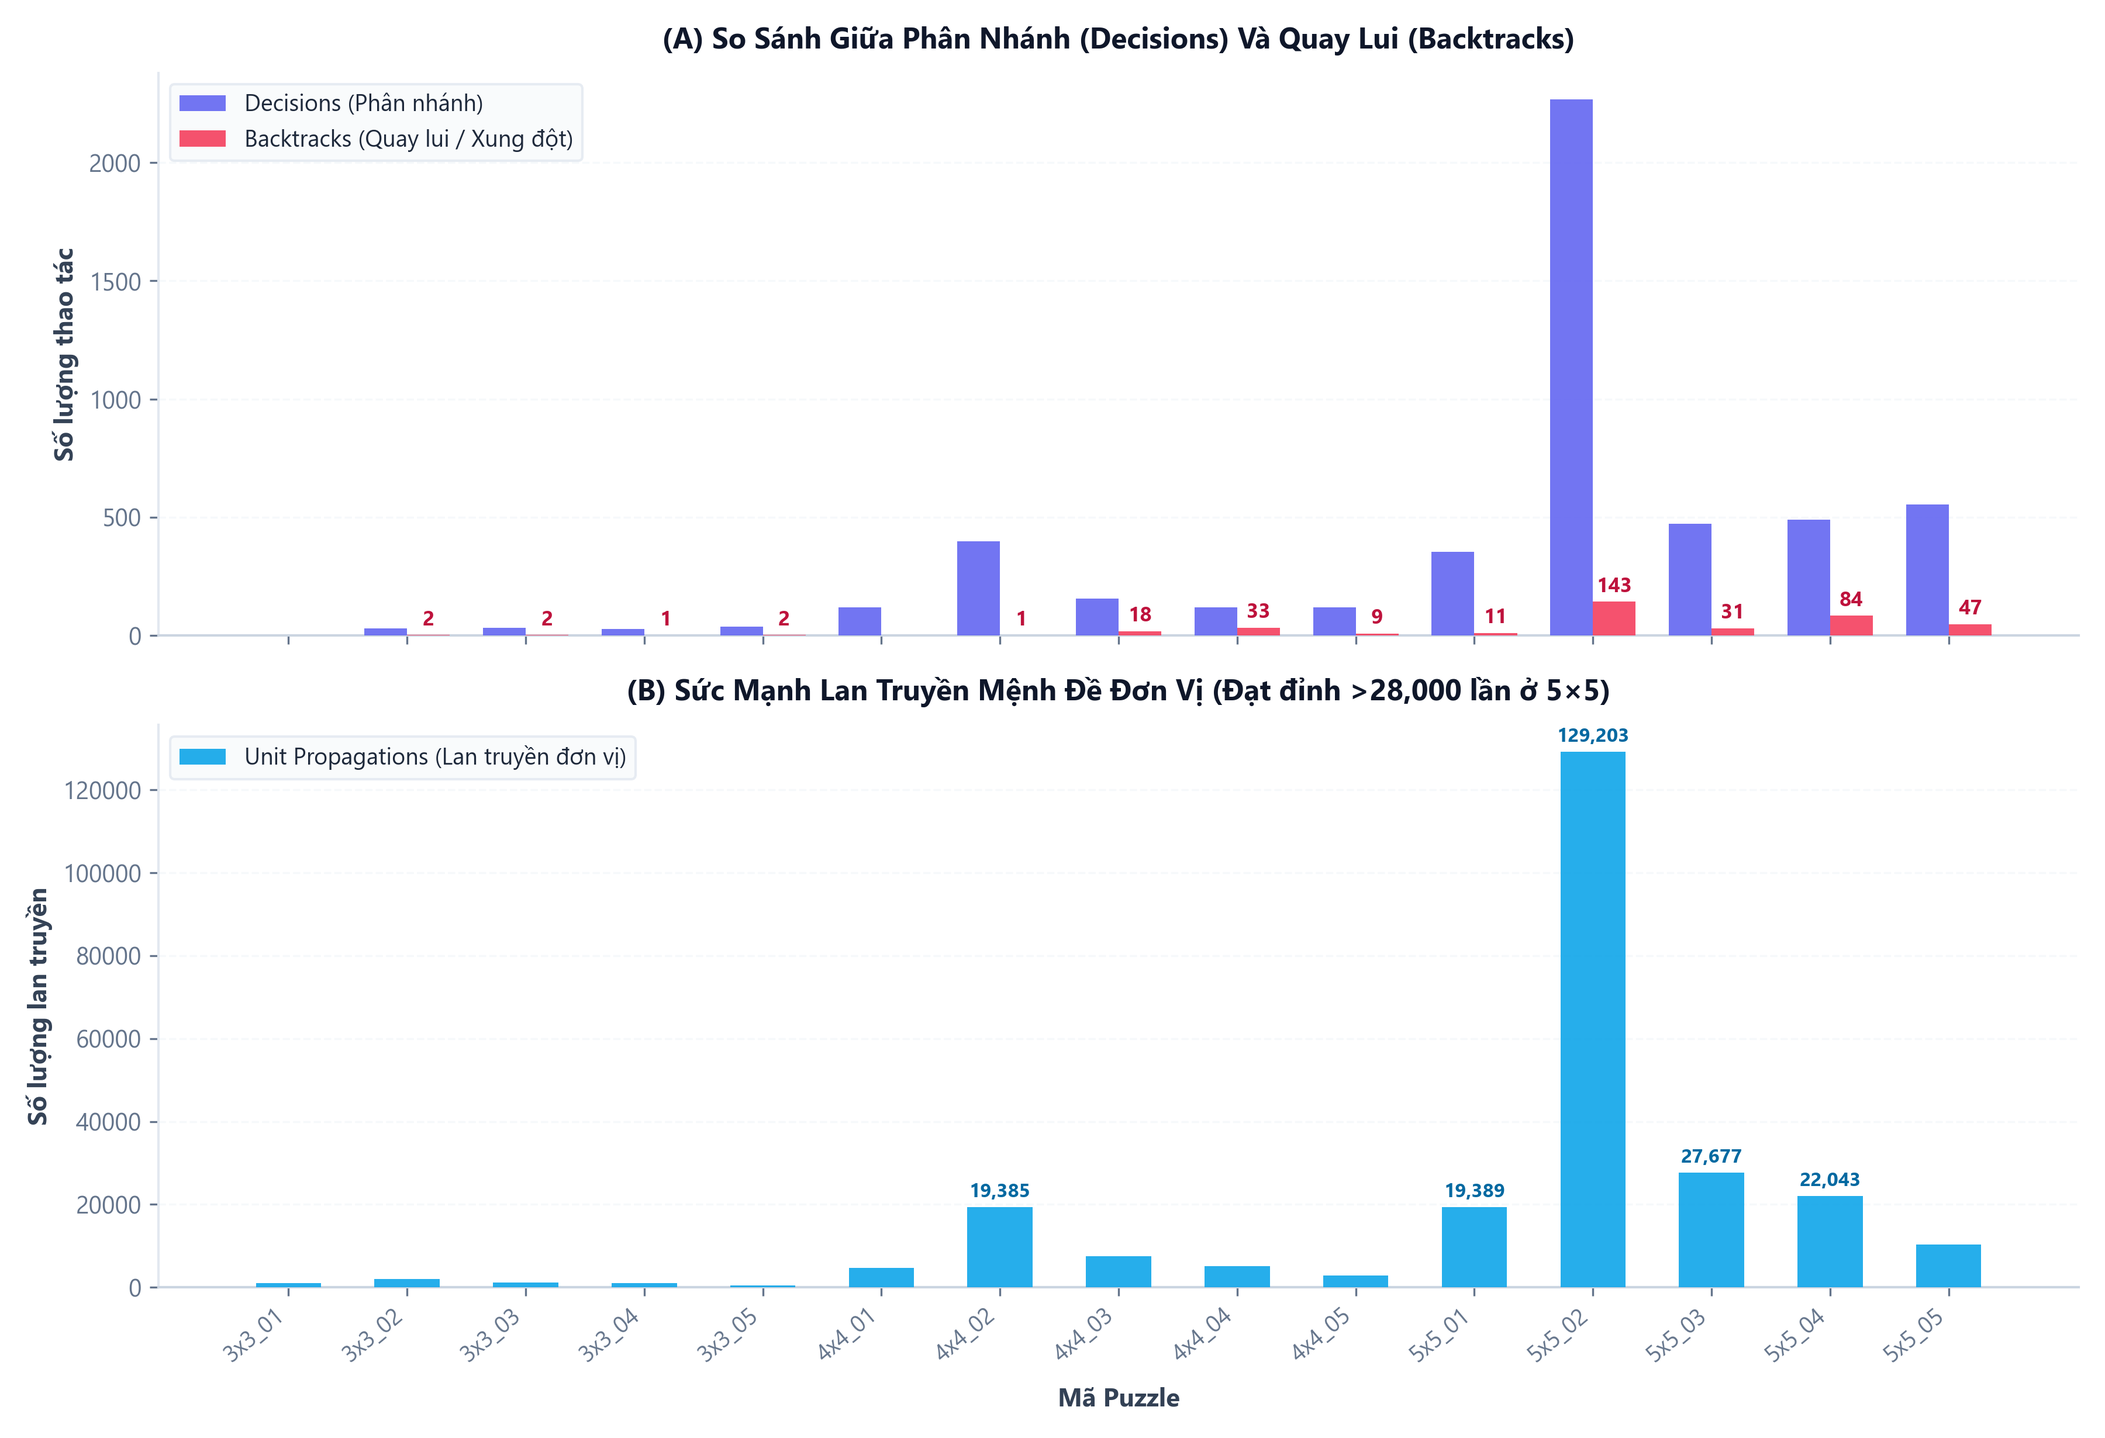
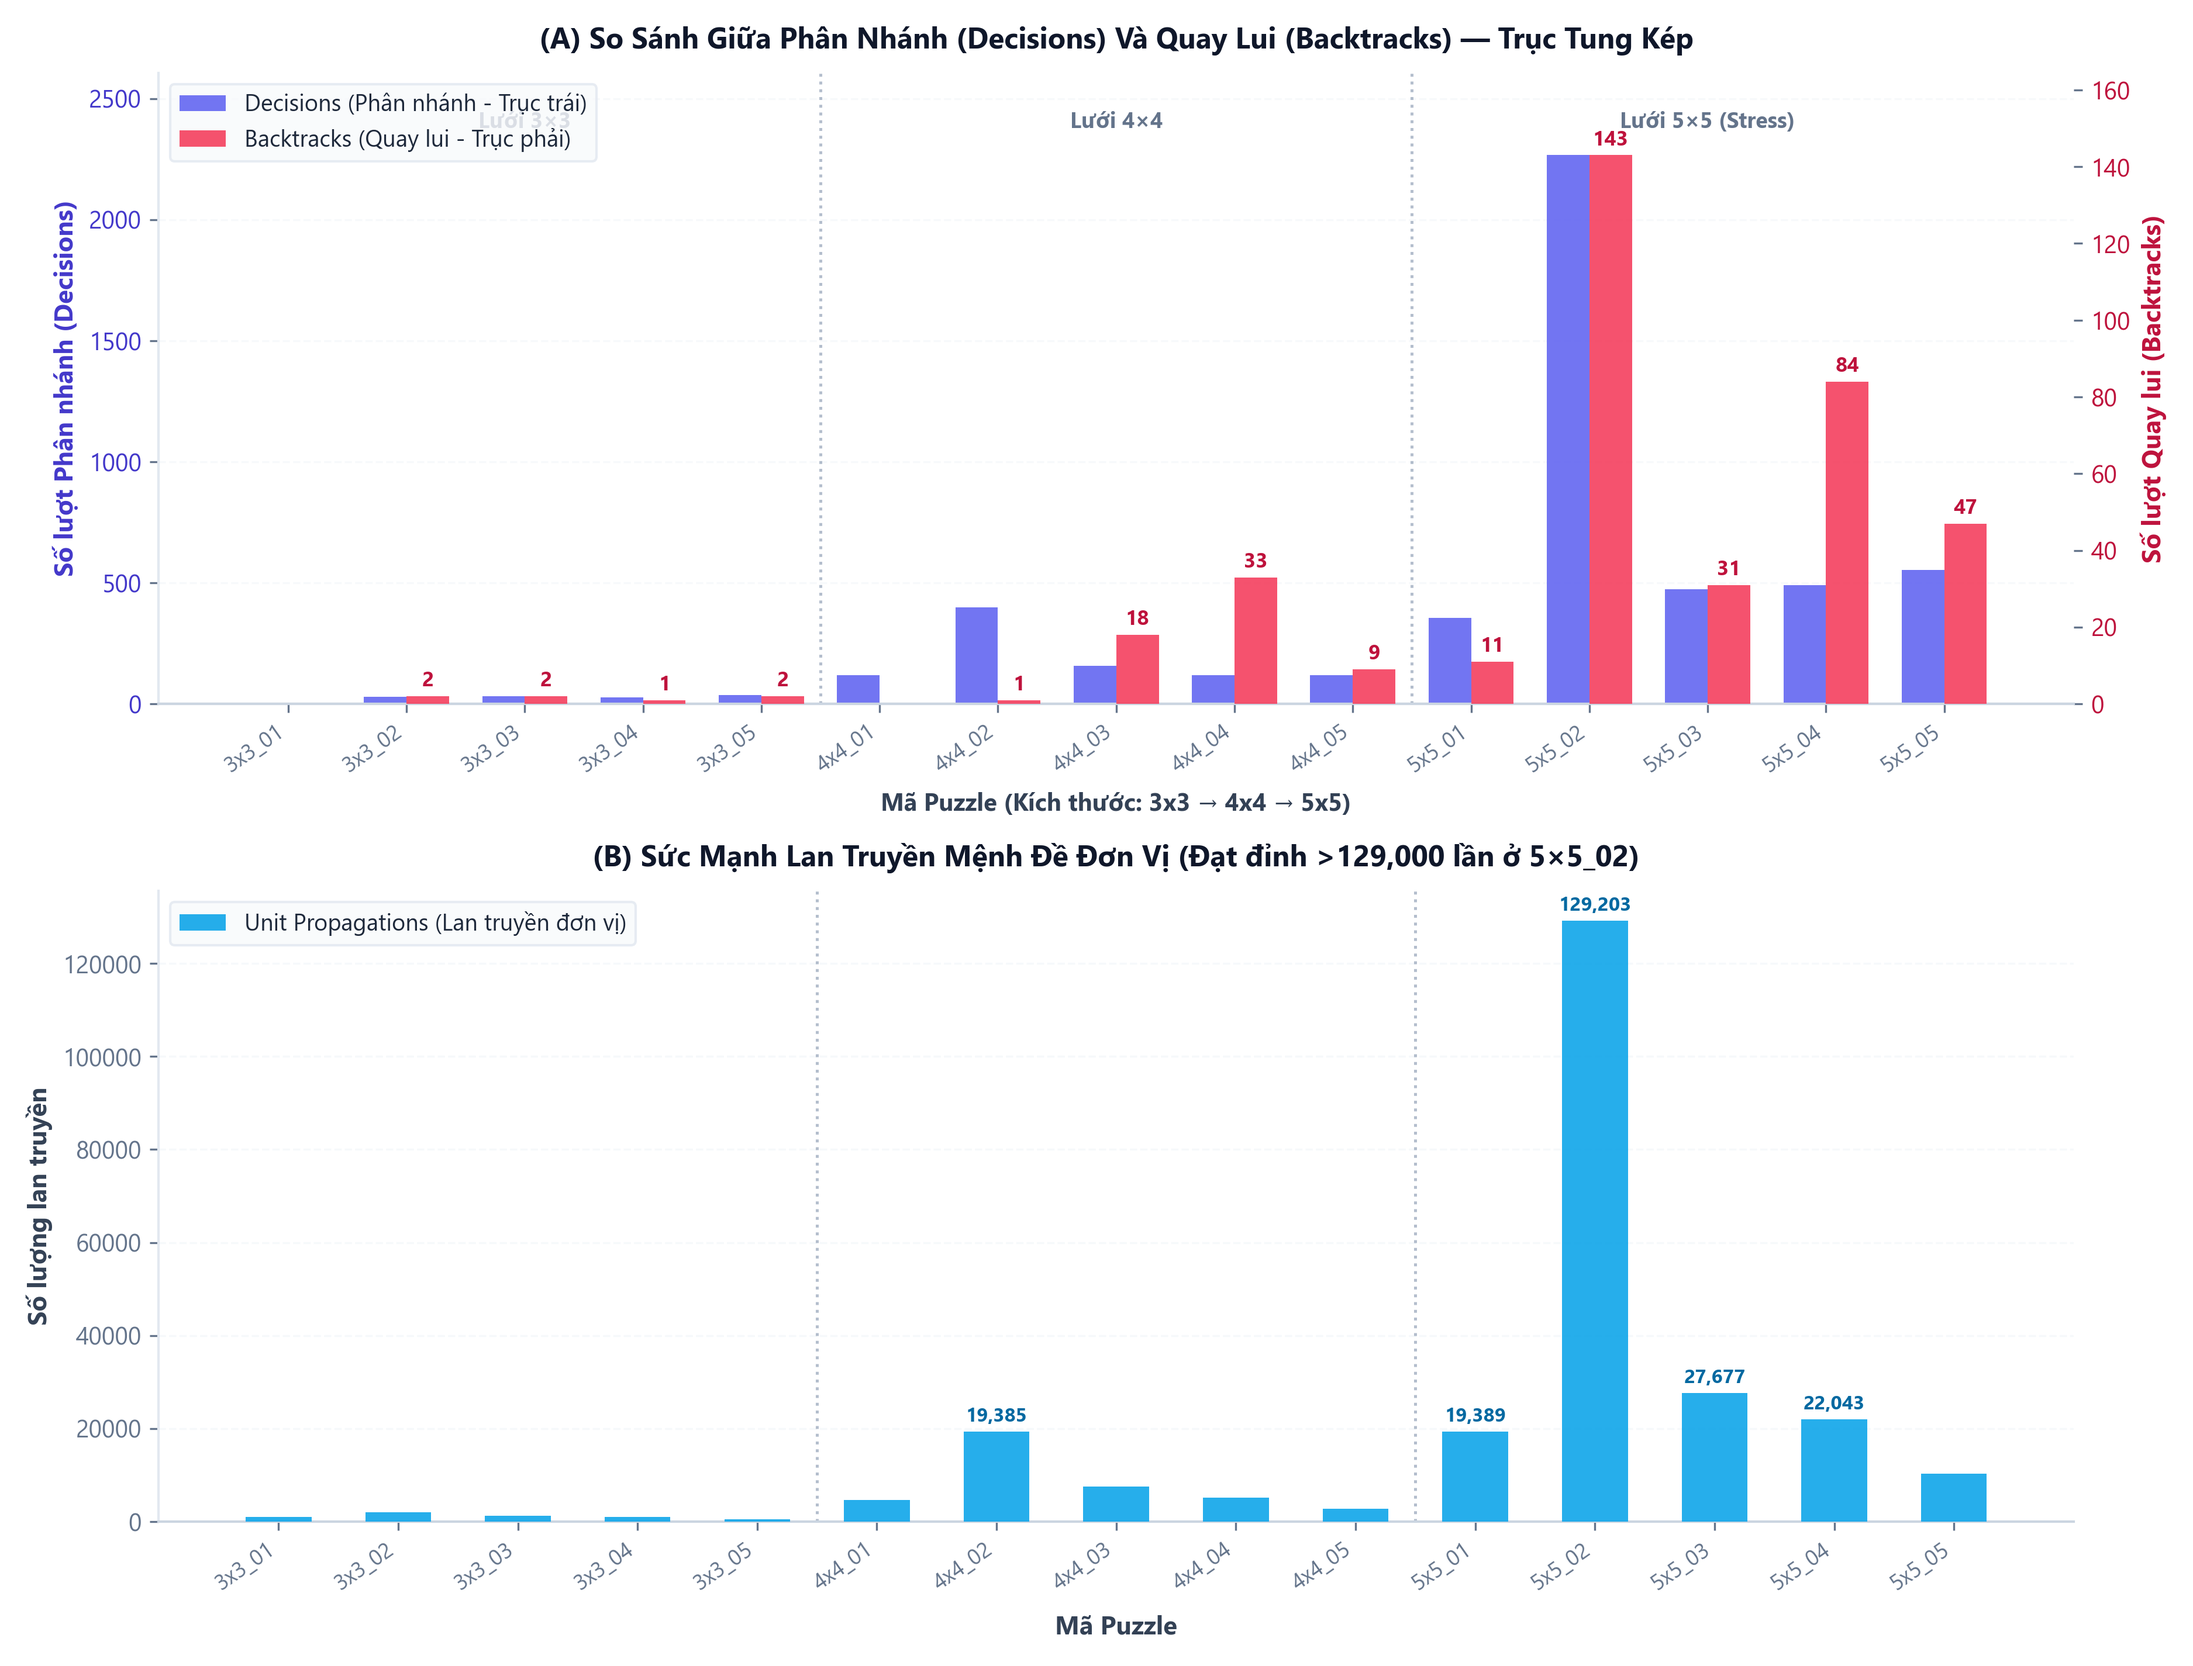
style(plot): add dual y-axis for decisions vs backtracks and explicit x-axis labels

diff --git a/plot_benchmark.py b/plot_benchmark.py
@@ -162,24 +162,42 @@ def plot_dpll_metrics(records: List[Dict[str, Any]], output_path: Path) -> None:
     backtracks = [r["backtracks"] for r in records]
     propagations = [r["propagations"] for r in records]
 
-    fig, (ax1, ax2) = plt.subplots(2, 1, figsize=(12, 8.2), dpi=300, sharex=True)
+    fig, (ax1, ax2) = plt.subplots(2, 1, figsize=(12.5, 9.5), dpi=300)
 
     x = np.arange(len(puzzles))
     width = 0.36
 
-    # Subplot A: Decisions vs Backtracks
-    ax1.bar(x - width/2, decisions, width, label="Decisions (Phân nhánh)", color="#6366F1", alpha=0.9, zorder=3)
-    ax1.bar(x + width/2, backtracks, width, label="Backtracks (Quay lui / Xung đột)", color="#F43F5E", alpha=0.9, zorder=3)
-    ax1.set_ylabel("Số lượng thao tác", fontsize=10.5, fontweight="bold")
-    ax1.set_title("(A) So Sánh Giữa Phân Nhánh (Decisions) Và Quay Lui (Backtracks)", fontsize=12, fontweight="bold", color=COLOR_SLATE_DARK, pad=10)
-    ax1.grid(axis="y", linestyle="--", alpha=0.6, zorder=0)
-    despine(ax1)
-    ax1.legend(loc="upper left", frameon=True, facecolor="#F8FAFC", edgecolor="#E2E8F0", fontsize=9.5)
+    # Subplot A: Decisions vs Backtracks with Dual Y-Axis
+    ax1_twin = ax1.twinx()
 
-    # Highlight backtracks > 0
+    bar1 = ax1.bar(x - width/2, decisions, width, label="Decisions (Phân nhánh - Trục trái)", color="#6366F1", alpha=0.9, zorder=3)
+    bar2 = ax1_twin.bar(x + width/2, backtracks, width, label="Backtracks (Quay lui - Trục phải)", color="#F43F5E", alpha=0.9, zorder=3)
+
+    ax1.set_ylabel("Số lượt Phân nhánh (Decisions)", fontsize=10.5, fontweight="bold", color="#4338CA")
+    ax1_twin.set_ylabel("Số lượt Quay lui (Backtracks)", fontsize=10.5, fontweight="bold", color="#BE123C")
+    ax1.tick_params(axis='y', labelcolor="#4338CA")
+    ax1_twin.tick_params(axis='y', labelcolor="#BE123C")
+
+    # Set proportional limits so red bars are clearly visible and correspond nicely to blue bars
+    max_dec = max(decisions) if decisions else 2500
+    max_back = max(backtracks) if backtracks else 150
+    ax1.set_ylim(0, max_dec * 1.15)
+    ax1_twin.set_ylim(0, max_back * 1.15)
+
+    ax1.set_title("(A) So Sánh Giữa Phân Nhánh (Decisions) Và Quay Lui (Backtracks) — Trục Tung Kép", fontsize=12, fontweight="bold", color=COLOR_SLATE_DARK, pad=10)
+    ax1.grid(axis="y", linestyle="--", alpha=0.5, zorder=0)
+    despine(ax1)
+    despine(ax1_twin)
+
+    # Combined legend
+    lines = [bar1, bar2]
+    labels = [l.get_label() for l in lines]
+    ax1.legend(lines, labels, loc="upper left", frameon=True, facecolor="#F8FAFC", edgecolor="#E2E8F0", fontsize=9.5)
+
+    # Highlight backtracks > 0 with annotations
     for i, b in enumerate(backtracks):
         if b > 0:
-            ax1.annotate(
+            ax1_twin.annotate(
                 f"{b}",
                 (x[i] + width/2, b),
                 textcoords="offset points",
@@ -190,10 +208,15 @@ def plot_dpll_metrics(records: List[Dict[str, Any]], output_path: Path) -> None:
                 color="#BE123C",
             )
 
+    # Explicit x-ticks for ax1 so horizontal axis is 100% clear
+    ax1.set_xticks(x)
+    ax1.set_xticklabels(puzzles, rotation=35, ha="right", fontsize=9.0)
+    ax1.set_xlabel("Mã Puzzle (Kích thước: 3x3 → 4x4 → 5x5)", fontsize=10.0, fontweight="bold", labelpad=6)
+
     # Subplot B: Unit Propagations
     ax2.bar(x, propagations, width=0.55, color="#0EA5E9", alpha=0.9, zorder=3, label="Unit Propagations (Lan truyền đơn vị)")
     ax2.set_ylabel("Số lượng lan truyền", fontsize=10.5, fontweight="bold")
-    ax2.set_title("(B) Sức Mạnh Lan Truyền Mệnh Đề Đơn Vị (Đạt đỉnh >28,000 lần ở 5×5)", fontsize=12, fontweight="bold", color=COLOR_SLATE_DARK, pad=10)
+    ax2.set_title("(B) Sức Mạnh Lan Truyền Mệnh Đề Đơn Vị (Đạt đỉnh >129,000 lần ở 5×5_02)", fontsize=12, fontweight="bold", color=COLOR_SLATE_DARK, pad=10)
     ax2.set_xlabel("Mã Puzzle", fontsize=10.5, fontweight="bold", labelpad=8)
     ax2.grid(axis="y", linestyle="--", alpha=0.6, zorder=0)
     despine(ax2)
@@ -214,7 +237,17 @@ def plot_dpll_metrics(records: List[Dict[str, Any]], output_path: Path) -> None:
             )
 
     ax2.set_xticks(x)
-    ax2.set_xticklabels(puzzles, rotation=40, ha="right", fontsize=9.5)
+    ax2.set_xticklabels(puzzles, rotation=35, ha="right", fontsize=9.0)
+
+    # Add section separator lines between 3x3, 4x4, 5x5
+    for ax in (ax1, ax2):
+        ax.axvline(4.5, color="#94A3B8", linestyle=":", linewidth=1.2, alpha=0.7)
+        ax.axvline(9.5, color="#94A3B8", linestyle=":", linewidth=1.2, alpha=0.7)
+
+    # Add region label annotations at top
+    ax1.text(2.0, max_dec * 1.05, "Lưới 3×3", ha="center", fontsize=9, fontweight="bold", color="#64748B")
+    ax1.text(7.0, max_dec * 1.05, "Lưới 4×4", ha="center", fontsize=9, fontweight="bold", color="#64748B")
+    ax1.text(12.0, max_dec * 1.05, "Lưới 5×5 (Stress)", ha="center", fontsize=9, fontweight="bold", color="#64748B")
 
     plt.tight_layout()
     plt.savefig(output_path, dpi=300)
